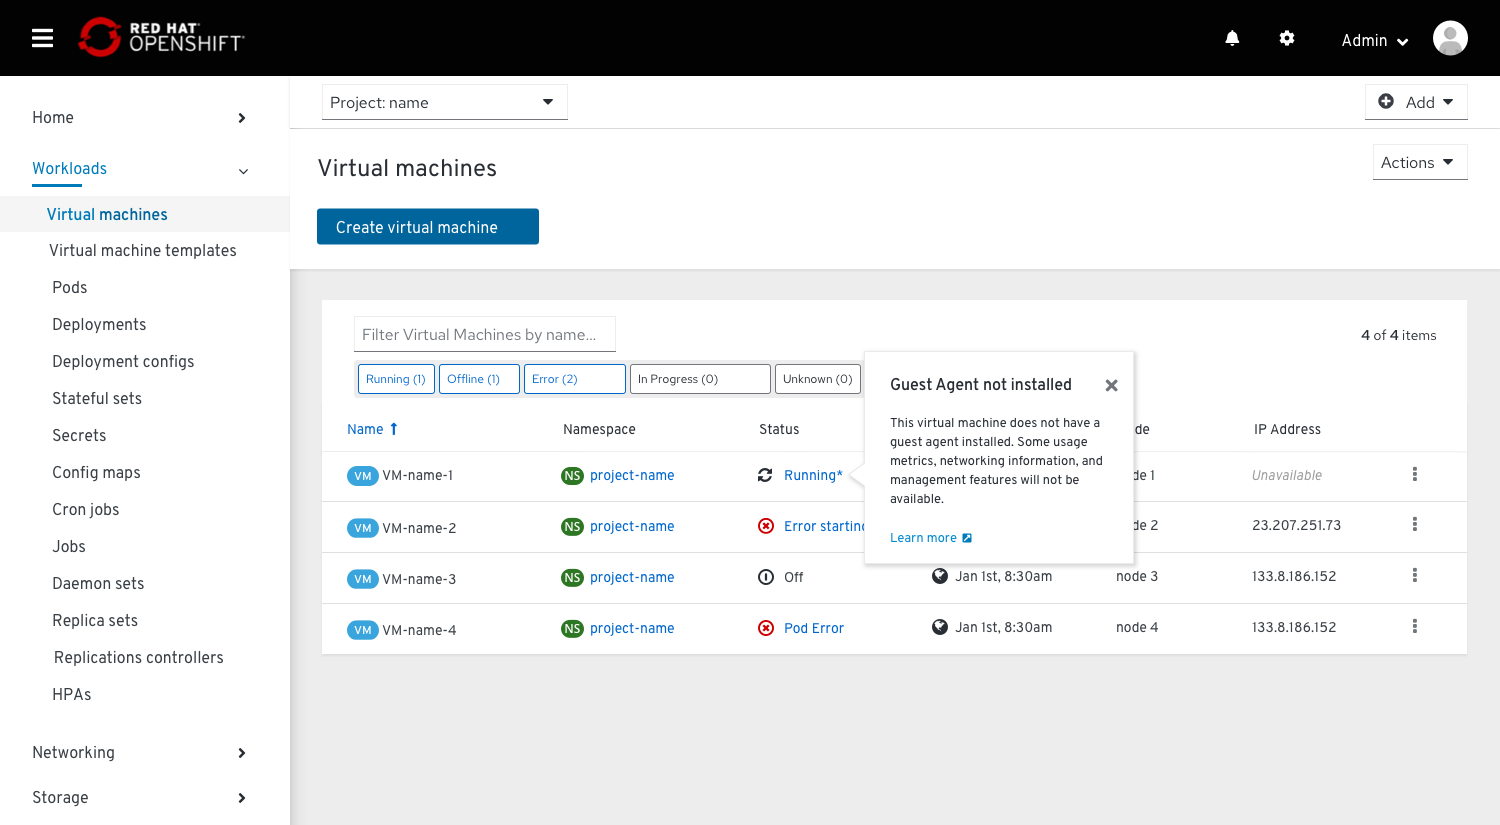
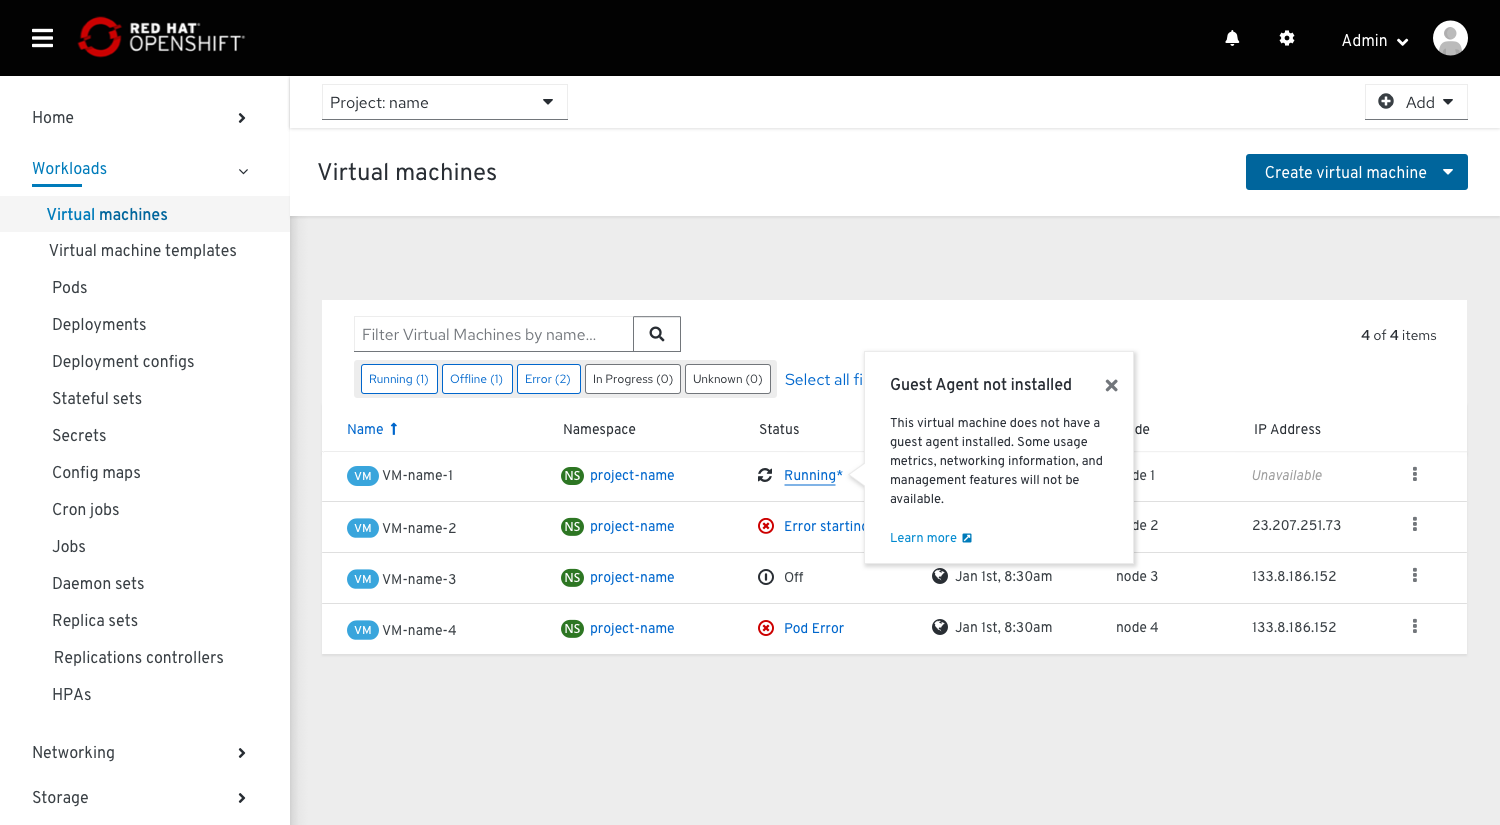
update image and text

diff --git a/web-console/knikubevirt/list-view-pf4/list-view-pf4.md b/web-console/knikubevirt/list-view-pf4/list-view-pf4.md
@@ -1,6 +1,4 @@
-# List View in PF4
-
-This PR describes the changes made in list view in the Virtualization Console when applying them into PF4.
+# List View (updated)
 
 ## VM List
 
@@ -11,7 +9,7 @@ The VM list contains columns for the following:
 * Status
   * Running, Off, Error (with custom messages), Cloning, Migrating, Importing, Warning, Pending (with changes that will apply after restart), Unknown
 * Created
-  * Date formatting should follow OpenShift’s console, viewable here and here
+  * Date formatting should follow OpenShift’s console
   * If possible, a tooltip should appear on hover with the exact creation date, including year.
 * Node
 * IP Address
@@ -24,14 +22,20 @@ We set 6 columns to be the max number we will display in list views. We also det
 
 ### Status Popovers and Icons
 
-Statuses should be colored blue to indicate that they can be hovered and/or clicked.
-Hovering over a blue status should display a status popovers with a brief description of the issue or underlying process. Clicking on a ‘Learn more’ link should bring the user to the VM’s Events page for more details.
-The status popovers are replacing the status tooltips from PF3 because they're significantly more accessible on mobile and easier to copy/paste from.
+[The Resource status](http://openshift.github.io/openshift-origin-design/web-console/4.0-designs/status/status)
+
+Statuses should be colored blue to indicate that they can be clicked/tapped.
+Hovering should only underline the blue status text.
+Hovering over a blue status should display a status popovers with a brief description of the issue or underlying process.
+Clicking on the "Learn more" with the external link icon (seen below in the Guest Agent example) should bring the user to external documentation for further details.
+“View details” without the external link icon would be more appropriate if the status is an error, for example, and clicking would bring the user to the Events page.
+The status popovers are replacing the status tooltips  because they're significantly more accessible on mobile and easier to copy/paste from and they also provide actions that the user can take upon.
+A popover is used to provide contextual information for another component on click. The popover itself is made up of two main elements: arrow and content. The content element follows the pattern of the popover box component, with a close icon in the top right corner, as well as a header and body.
 
 ![status popovers instead of tooltips](img/statuspopovers.png)
 
-We replaced the old lightning bolt icon for ‘Running’ with fa-refresh icon .
-When we want the user to pay attention to something that is going on (f.e. when the IP address is unavailable for a long period of time when a guest agent is missing), the ‘Running’ status will get an aestrick at the end of the word Running*. This is done to ensure that the user will know something is going on and doesn't stay confused about the IP being unavailable for very long.
+We replaced the old lightning bolt icon for ‘Running’ with fa-refresh icon.
+An asterisk can be appended to the status to highlight a potential issue that the user should be aware of. For example, when the IP address is unavailable because of missing guest agent, the ‘Running’ status will be appended with an asterisk.
 
 ## Filtering
 
@@ -53,27 +57,27 @@ Sorting by columns is possible for any data table variation. Enabling the compon
 
 ![Sorting](img/sorting.png)
 
-Sorted column: when a column is being sorted by, the column header will turn blue and the sort icon will represent the direction of the sort. Subsequent clicks on the sortable column header will toggle the direction of the sort.
-Hovered sort: when a column is sortable, the sort icon will appear to the right of the column header. Upon hover, the icon will change to a darker grey indicating that the icon is actionable.
-Sortable column: when a column is sortable, the sort icon will appear to the right of the column header in a light grey color. Sorting will not become active until the user selects the column header. This triggers the arrow to point upwards and the content to be sorted in ascending order.
+1. **Sorted column** when a column is being sorted, the column header will turn blue and the sort icon will represent the direction of the sort. Subsequent clicks on the sortable column header will toggle the direction of the sort.
+2. **Hovered sort** when a column is sortable, the sort icon will appear to the right of the column header. Upon hover, the icon will change to a darker grey indicating that the icon is actionable.
+3. **Sortable column** when a column is sortable, the sort icon will appear to the right of the column header in a light grey color. Sorting will not become active until the user selects the column header. This triggers the arrow to point upwards and the content to be sorted in ascending order.
 
 ![Sorting with examples](img/sorting2.png)
 
 ## States and Actions
 
-When a VM is off, the actions kebab contains options to Run, Edit, Migrate, Clone, Create Template, Take Snapshot, and Delete the VM.
+When a VM is off, the actions kebab contains options to Run, Edit, Migrate, Clone, Create template, Take snapshot, and Delete the VM.
 
-![Dropdown when the vm is off](img/vmlistdropdownoff.png)
+![Dropdown when the vm is off](img/dropdownoff.png)
 
 When a VM is running the Run option is replaced with two dropdowns for Power and Connect to Console.
 
-![Dropdown when the vm is running](img/dropdownpower.png)
+![Dropdown when the vm is running](img/dropdowpower.png)
 
 The Power dropdown contains options to Suspend, Restart, or Shut down the VM. Because these are potentially destructive actions, clicking any of these options will display a modal for the user to confirm.
 
 ![Confirmation modal](img/confirmationmodal.png)
 
-The modals for Restart and Shut down include an additional button to “Force” the action. They also include warnings about the possibility for data loss.
+The modals for Restart and Shutdown include an additional button to “Force” the action. They also include warnings about the possibility for data loss.
 
 ![Restart modal](img/restartmodal.png)
 
@@ -86,4 +90,3 @@ The Connect to Console dropdown contains quick links to the consoles that are en
 When a VM is in a transitional state (cloning, migrating, taking a snapshot, etc.) any unavailable actions in the kebab are disabled and the original action (“Clone”) is replaced with a cancel action (“Cancel Clone”).
 
 ![Vm in transitional state the original action is replaced w_cancel action](img/transitionalstatemenu.png)
-
